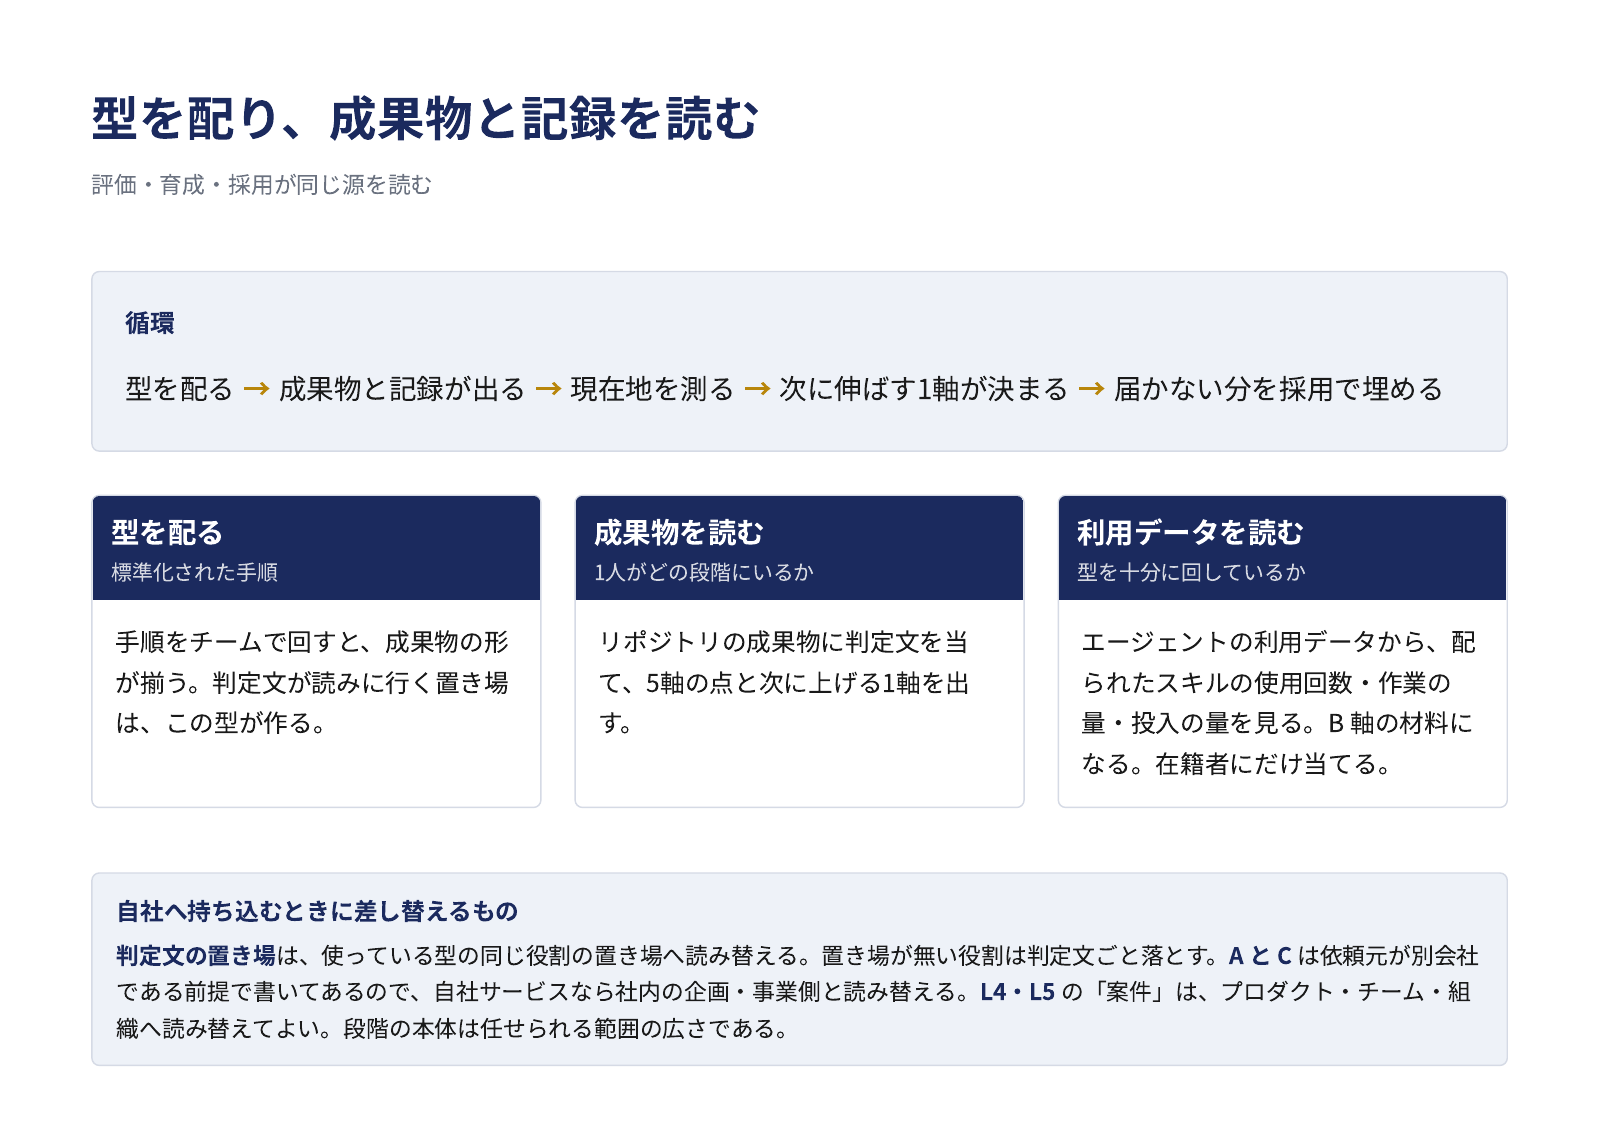
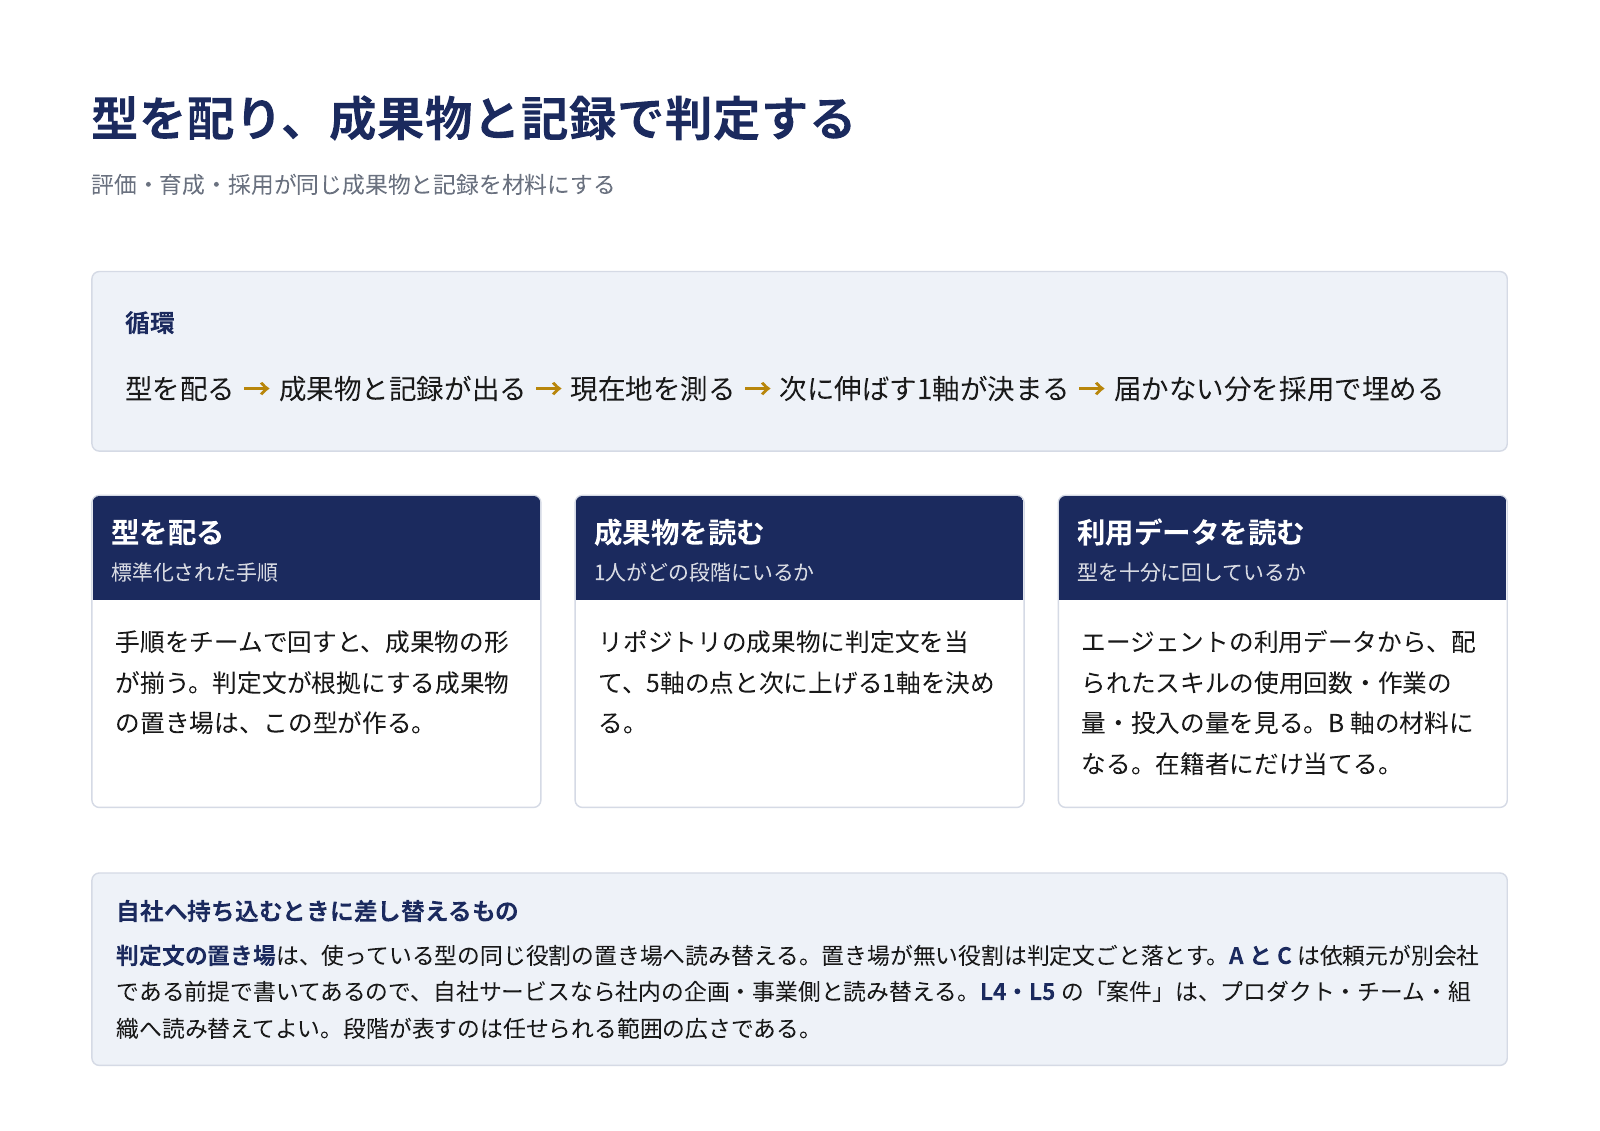
Replace vague 出る/読む wording in ladder docs and slides
「出るもの」「能力で読む」「同じ源を読む」など、何が決まるか・何で判定するかを伏せる言い回しを、決まる・付く・分かる・判定する・材料にする などの語に置き換えた。あわせて「詰まりの型」「段階の本体」「判定文が読みに行く置き場」も中身の語で書き直し、スライドの PNG を作り直した。

diff --git a/ladder/slides.html b/ladder/slides.html
@@ -110,7 +110,7 @@ li::before{ content:""; position:absolute; left:.4mm; top:calc(.5lh - .75mm);
 <section class="page cover">
   <div class="org">評価制度の例</div>
   <h1>エンジニアの評価基準<br>5軸 × 5段階</h1>
-  <div class="lead">採用・育成・評価を、1つの基準で回す</div>
+  <div class="lead">採用・育成・評価に、1つの基準を使う</div>
   <hr>
   <ul class="ask">
     <li><b>何を測るか</b>　上流・型の運用・ドメイン・検証・基盤の5軸</li>
@@ -123,20 +123,20 @@ li::before{ content:""; position:absolute; left:.4mm; top:calc(.5lh - .75mm);
 <!-- 2 3つの用途 -->
 <section class="page">
   <div class="head">
-    <h1>評価・育成・採用を、同じ5軸で回す</h1>
-    <div class="sub">3つを別々の制度にしない。軸と段階は共通で、読む材料だけが替わる</div>
+    <h1>評価・育成・採用に、同じ5軸を使う</h1>
+    <div class="sub">3つを別々の制度にしない。軸と段階は共通で、材料だけが替わる</div>
   </div>
   <div class="body" style="justify-content:center">
     <div class="uses">
       <div class="use"><div class="n">評価<span>いまどこにいるか</span></div>
-        <dl><dt>読むもの</dt><dd>リポジトリの成果物と、型を回した記録</dd>
-            <dt>出るもの</dt><dd>5軸それぞれの段階。証拠が無い軸は「未観測」</dd></dl></div>
+        <dl><dt>材料</dt><dd>リポジトリの成果物と、型を回した記録</dd>
+            <dt>結果</dt><dd>5軸それぞれの段階。証拠が無い軸は「未観測」</dd></dl></div>
       <div class="use"><div class="n">育成<span>次に何を伸ばすか</span></div>
-        <dl><dt>読むもの</dt><dd>評価で出た5軸の段階</dd>
-            <dt>出るもの</dt><dd>最も低い1軸と、それに対応する手順。回した成果物が次の評価の材料になる</dd></dl></div>
+        <dl><dt>材料</dt><dd>評価で付いた5軸の段階</dd>
+            <dt>結果</dt><dd>最も低い1軸と、それに対応する手順。回した成果物が次の評価の材料になる</dd></dl></div>
       <div class="use"><div class="n">採用<span>誰を取るか</span></div>
-        <dl><dt>読むもの</dt><dd>面接と課題。前職の成果物は持ち込ませない</dd>
-            <dt>出るもの</dt><dd>在籍者と同じ5軸の段階。B は入社前に測れないので見込みで置き、入社後に採点し直す</dd></dl></div>
+        <dl><dt>材料</dt><dd>面接と課題。前職の成果物は持ち込ませない</dd>
+            <dt>結果</dt><dd>在籍者と同じ5軸の段階。B は入社前に測れないので見込みで置き、入社後に採点し直す</dd></dl></div>
     </div>
   </div>
   <div class="foot"><div class="callout">
@@ -191,9 +191,9 @@ li::before{ content:""; position:absolute; left:.4mm; top:calc(.5lh - .75mm);
   </div>
   <div class="foot">
     <div class="co3">
-      <div class="callout"><div class="t">L1 は標準化の外に置く</div>型を渡しても回せず、個人の書き方で成果物を出す状態。<b>型を渡して回させれば L2 へ上がれる</b>ので、育成の下端が定義から読める。</div>
+      <div class="callout"><div class="t">L1 は標準化の外に置く</div>型を渡しても回せず、個人の書き方で成果物を出す状態。<b>型を渡して回させれば L2 へ上がれる</b>ので、育成の出発点が定義で決まる。</div>
       <div class="callout"><div class="t">L2 は型を理解すれば届く</div>判定文は型が実際に強制するものだけで書いてある。理解した人が届かないなら、<b>直すのは人ではなく判定文か型の側</b>である。</div>
-      <div class="callout"><div class="t">L5 の行は到達像</div>5本がすべて真になる人を探すためではなく、<b>どの軸がどれだけ足りないか</b>を言うために読む。</div>
+      <div class="callout"><div class="t">L5 の行は到達像</div>5本がすべて真になる人を探すためではなく、<b>どの軸がどれだけ足りないか</b>を言うために使う。</div>
     </div>
     <div class="note">※ 報酬帯との対応は持たない。段階と報酬の結び付け方は各社で違い、評価基準の側に固定すると持ち込めなくなる。</div>
   </div>
@@ -224,7 +224,7 @@ li::before{ content:""; position:absolute; left:.4mm; top:calc(.5lh - .75mm);
           <tr><td><span class="lv">L2</span></td><td>指示された手順を回し、標準の形の成果物を出せる。変更1本ごとに区切り、コミットで止まって承認を待てる<div class="src">PR の粒度、承認の残り方、配られたスキルの使用回数</div></td></tr>
           <tr><td><span class="lv">L3</span></td><td>作業に対して回す手順を自分で選べる。他の作業者の成果物を読んで自分の進め方を直せる。型が噛み合わない作業を見分けて手で進める<div class="src">手順を外した作業と、その理由の記録</div></td></tr>
           <tr><td><span class="lv">L4</span></td><td>既存の型の欠落を特定して直せる。無い手順を作る要否を判断し、要ると見れば自分で作ってチームに使わせる<div class="src">手順の置き場への変更と、自作のスキルが他のメンバーに使われた回数</div></td></tr>
-          <tr><td><span class="lv">L5</span></td><td>案件横断で型の構成を設計し、他人が回せる形に配布できる。詰まりの型を見つけて仕組みの側へ反映できる<div class="src">他案件への配布と、配布後の定着</div></td></tr>
+          <tr><td><span class="lv">L5</span></td><td>案件横断で型の構成を設計し、他人が回せる形に配布できる。繰り返し起きる詰まりを見つけて型に反映できる<div class="src">他案件への配布と、配布後の定着</div></td></tr>
         </tbody>
       </table>
     </div>
@@ -267,7 +267,7 @@ li::before{ content:""; position:absolute; left:.4mm; top:calc(.5lh - .75mm);
 <section class="page">
   <div class="head">
     <h1>判定文（3/3）　E インフラ・基盤／採点の原則</h1>
-    <div class="sub">採点は能力で読み、5軸を平均しない</div>
+    <div class="sub">採点は能力で判定し、5軸を平均しない</div>
   </div>
   <div class="body">
     <div style="display:flex;gap:6mm;flex:1">
@@ -282,13 +282,13 @@ li::before{ content:""; position:absolute; left:.4mm; top:calc(.5lh - .75mm);
         </tbody>
       </table>
       <div class="card" style="flex:1">
-        <div class="t"><span class="a">採点の原則</span><span class="b">能力で読み、実績で読まない</span></div>
+        <div class="t"><span class="a">採点の原則</span><span class="b">能力で判定し、実績では判定しない</span></div>
         <div class="c">
-          判定文を成果物の事実で読むと、測っているのは<b>やってきたこと</b>になる。組めるが組む仕事をしなかった人は、E が実力より下に出る。
+          判定文を成果物の事実だけで当てると、測っているのは<b>やってきたこと</b>になる。組めるが組む仕事をしなかった人は、E が実力より低く付く。
           <ul style="margin-top:2.6mm">
             <li><b>軸ごとに L2 から順に真偽を見る。</b>偽になった手前がその軸の点になる</li>
             <li><b>証拠が無い軸は「未観測」として残す。</b>点で埋めない。育成では機会を配れば分かる軸、選考では面接で聞く軸を指す</li>
-            <li><b>5軸の平均を取らない。</b>凸凹が消え、次に何をするかが出なくなる</li>
+            <li><b>5軸の平均を取らない。</b>凸凹が消え、次に何をするかが分からなくなる</li>
           </ul>
         </div>
       </div>
@@ -316,7 +316,7 @@ li::before{ content:""; position:absolute; left:.4mm; top:calc(.5lh - .75mm);
       <tbody>
         <tr><td><span class="lv out">L1</span></td>
           <td class="num">1</td><td class="num">1</td><td class="num hi">3</td><td class="num">1</td><td class="num">1</td>
-          <td>型を渡しても回らず、自分の書き方で書き始める。同じ依頼元を長く見てきたので、C だけが2段上に出ている。</td>
+          <td>型を渡しても回らず、自分の書き方で書き始める。同じ依頼元を長く見てきたので、C だけが2段高い。</td>
           <td>単位作業。着手前にこちらで手順を割ってから渡す</td></tr>
         <tr><td><span class="lv">L2</span></td>
           <td class="num">2</td><td class="num">2</td><td class="num">1</td><td class="num">2</td><td class="num">1</td>
@@ -338,16 +338,16 @@ li::before{ content:""; position:absolute; left:.4mm; top:calc(.5lh - .75mm);
     </table>
   </div>
   <div class="foot"><div class="callout">
-    <div class="t">この5人から読めること</div>
-    代表段階は5人とも<b>A と B の高いほう</b>に一致する。最も低い軸を取る規則にすると L1 以外の全員が下がる。最も低い軸を取るのは、次に上げる1軸を出すときだけである。<b>C は段階に連動しない</b>（L1 が3、L2 が1、L3 が2）。型に乗れるかと依頼元の業務を知っているかは互いに独立で、在籍の長さが効くのは C の側だけである。
+    <div class="t">この5人から分かること</div>
+    代表段階は5人とも<b>A と B の高いほう</b>に一致する。最も低い軸を取る規則にすると L1 以外の全員が下がる。最も低い軸を取るのは、次に上げる1軸を決めるときだけである。<b>C は段階に連動しない</b>（L1 が3、L2 が1、L3 が2）。型に乗れるかと依頼元の業務を知っているかは互いに独立で、在籍の長さが効くのは C の側だけである。
   </div></div>
 </section>
 
 <!-- 10 型と道具 -->
 <section class="page">
   <div class="head">
-    <h1>型を配り、成果物と記録を読む</h1>
-    <div class="sub">評価・育成・採用が同じ源を読む</div>
+    <h1>型を配り、成果物と記録で判定する</h1>
+    <div class="sub">評価・育成・採用が同じ成果物と記録を材料にする</div>
   </div>
   <div class="body" style="justify-content:center">
     <div class="flow" style="margin-bottom:8mm">
@@ -358,16 +358,16 @@ li::before{ content:""; position:absolute; left:.4mm; top:calc(.5lh - .75mm);
     </div>
     <div class="cards">
       <div class="card"><div class="t"><span class="a">型を配る</span><span class="b">標準化された手順</span></div>
-        <div class="c">手順をチームで回すと、成果物の形が揃う。判定文が読みに行く置き場は、この型が作る。</div></div>
+        <div class="c">手順をチームで回すと、成果物の形が揃う。判定文が根拠にする成果物の置き場は、この型が作る。</div></div>
       <div class="card"><div class="t"><span class="a">成果物を読む</span><span class="b">1人がどの段階にいるか</span></div>
-        <div class="c">リポジトリの成果物に判定文を当て、5軸の点と次に上げる1軸を出す。</div></div>
+        <div class="c">リポジトリの成果物に判定文を当て、5軸の点と次に上げる1軸を決める。</div></div>
       <div class="card"><div class="t"><span class="a">利用データを読む</span><span class="b">型を十分に回しているか</span></div>
         <div class="c">エージェントの利用データから、配られたスキルの使用回数・作業の量・投入の量を見る。B 軸の材料になる。在籍者にだけ当てる。</div></div>
     </div>
   </div>
   <div class="foot"><div class="callout">
     <div class="t">自社へ持ち込むときに差し替えるもの</div>
-    <b>判定文の置き場</b>は、使っている型の同じ役割の置き場へ読み替える。置き場が無い役割は判定文ごと落とす。<b>A と C</b> は依頼元が別会社である前提で書いてあるので、自社サービスなら社内の企画・事業側と読み替える。<b>L4・L5</b> の「案件」は、プロダクト・チーム・組織へ読み替えてよい。段階の本体は任せられる範囲の広さである。
+    <b>判定文の置き場</b>は、使っている型の同じ役割の置き場へ読み替える。置き場が無い役割は判定文ごと落とす。<b>A と C</b> は依頼元が別会社である前提で書いてあるので、自社サービスなら社内の企画・事業側と読み替える。<b>L4・L5</b> の「案件」は、プロダクト・チーム・組織へ読み替えてよい。段階が表すのは任せられる範囲の広さである。
   </div></div>
 </section>
 </body></html>

diff --git a/ladder/docs/personas.md b/ladder/docs/personas.md
@@ -1,7 +1,7 @@
 # 参照ペルソナ
 
 [ladder.md](ladder.md) の各段階に1人ずつ像を置く。実在の人物を当てず、評価基準の側を
-固定するための像である。採点で迷ったとき、判定文の隣にこの5人を置いて読む。
+固定するための像である。採点で迷ったとき、判定文とこの5人を照らし合わせる。
 
 **5人とも全軸を揃えていない。** 実在の人は軸ごとに凸凹するため、揃った像はどの人にも
 当たらない。
@@ -19,7 +19,7 @@
 
 型を渡しても回らない。手順書を開くより先に自分の書き方で書き始め、指摘されるとその場は
 直すが次の作業でまた戻る。同じ依頼元を長く見てきたので現行システムの全体構成と例外処理の
-在処は把握していて、C だけが2段上に出ている。
+在処は把握していて、C だけが2段高い。
 
 - **任せられる範囲**: 単位作業。着手前にこちらで手順を割ってから渡す
 - **成果物**: 形が揃わない。同じ種類の作業でも毎回違う出方をする
@@ -87,15 +87,15 @@
 - **成果物**: 型と品質基準が、他の案件が下敷きにできる形で出る
 - **レビューで返るもの**: 会社としての方針との整合
 
-## この5人から読めること
+## この5人から分かること
 
 **代表段階は、5人とも A と B の高いほうに一致する。** 最も低い軸を取る規則にすると
-L1 以外の全員が下がる。最も低い軸を取るのは**次に上げる1軸**を出すときだけで、
+L1 以外の全員が下がる。最も低い軸を取るのは**次に上げる1軸**を決めるときだけで、
 **その人を1つの段階で呼ぶ**ときは A と B の高いほうを取る。
 
 **C は段階に連動しない。** L1 が3、L2 が1、L3 が2 で、段階の順に並ばない。配られた型に
 乗れるかと、依頼元の業務を知っているかは互いに独立で、在籍の長さが関わるのは C の側だけである。
-C を代表段階の材料に入れると、長くいる人が実態より上に出る。
+C を代表段階の材料に入れると、長くいる人に実態より高い段階が付く。
 
 **凸凹の幅は段階に連動しない。** 2段の開きを持つのは L1 だけで、L2 以上の4人は1段に収まる。
 段階が上がって低い軸が無くなるのではなく、低い軸の位置が変わる。

diff --git a/ladder/docs/ladder.md b/ladder/docs/ladder.md
@@ -1,6 +1,6 @@
 # ラダー
 
-このリポの正本である。採点・育成・選考はすべてこの表を読む。
+このリポの正本である。採点・育成・選考はすべてこの表を基準にする。
 
 評価基準は5軸と5段階でできている。軸は測るもの、段階は依頼元に対してどこまで一人で
 任せられるかを区切ったものである。
@@ -32,7 +32,7 @@
 持つ型が少ないためで、そこは型の側の欠落になる。
 
 **L5 の行は到達像である。** 5本の判定文がすべて真になる人を探すためではなく、
-どの軸がどれだけ足りないかを言うために読む。
+どの軸がどれだけ足りないかを言うために使う。
 
 報酬帯との対応は持たない。段階と報酬の結び付け方は各社で違い、評価基準の側に固定すると
 持ち込めなくなる。
@@ -71,7 +71,7 @@
 | L2 | 指示された手順を回し、標準の形の成果物を出せる。変更1本ごとに区切り、コミットで止まって承認を待てる | 直近の PR の粒度、承認の残り方、Claude Code の利用データにある配られたスキルの使用回数 |
 | L3 | 作業に対して回す手順を自分で選べる。他の作業者の成果物を読んで自分の進め方を直せる。型が噛み合わない作業を見分けて手で進める判断ができる | 手順を外した作業と、その理由の記録 |
 | L4 | 既存の型の欠落を特定して直せる。無い手順を作る要否を判断し、要ると見れば自分で作ってチームに使わせる | `docs/ops/` への変更と、その後の利用。自作のスキルがほかのメンバーに使われた回数（Claude Code の利用データ） |
-| L5 | 案件横断で型の構成を設計し、他人が回せる形に配布できる。詰まりの型を見つけて仕組みの側へ反映できる | 他案件への配布と、配布後の定着 |
+| L5 | 案件横断で型の構成を設計し、他人が回せる形に配布できる。繰り返し起きる詰まりを見つけて型に反映できる | 他案件への配布と、配布後の定着 |
 
 **L3 の「他の作業者の成果物を読んで自分の進め方を直せる」は、受け取る側の能力である。**
 公開ラダーはメンタリングやレビューという与える側だけを測ることが多いが、

diff --git a/ladder/docs/scoring.md b/ladder/docs/scoring.md
@@ -13,7 +13,7 @@
 ## 未観測を点で埋めない
 
 判定文は成果物から確かめられる事実で書いてある。そのまま読むと、測っているのは
-**やってきたこと**になる。組めるが組む仕事をしなかった人は、E が低く出る。
+**やってきたこと**になる。組めるが組む仕事をしなかった人は、E が実力より低く付く。
 
 **段階は能力の側で決める。** 機会が無かっただけの人を下に置くと、育成で打つ手を間違え、
 選考では取り逃す。
@@ -24,11 +24,11 @@
 
 5軸の点が揃わないとき、どこを取るかは用途で変わる。
 
-- **育成** — 最も低い軸を見る。次に上げる1軸がそのまま出る
+- **育成** — 最も低い軸を見る。次に上げる1軸がそのまま決まる
 - **配置** — 案件が要求する軸だけを見る。5軸の平均は取らない
 - **選考** — 最も低い軸を見る。ただし B は入社前に測れない
 
-平均を取ると、凸凹が消えて「次に何をするか」が出なくなる。点は順位付けではなく、
+平均を取ると、凸凹が消えて「次に何をするか」が分からなくなる。点は順位付けではなく、
 どの軸が足りないかを見るために置いてある。
 
 ## 候補者に当てるとき

diff --git a/ladder/docs/adapt.md b/ladder/docs/adapt.md
@@ -27,7 +27,7 @@ B は残す。配られた型に乗れるかを測る軸で、エージェント
 ## 3. 段階を差し替える
 
 L4・L5 は「案件」を単位にしている。案件で区切らない組織では、
-プロダクト・チーム・組織のいずれかに読み替える。段階の区切りの本体は
+プロダクト・チーム・組織のいずれかに読み替える。段階の区切りが表すのは
 **任せられる範囲の広さ**であり、単位の名前ではない。
 
 ## 書き足すときの規則

diff --git a/ladder/README.md b/ladder/README.md
@@ -6,7 +6,7 @@
 
 ![1. 表紙](slides/01.png)
 
-![2. 評価・育成・採用を、同じ5軸で回す](slides/02.png)
+![2. 評価・育成・採用に、同じ5軸を使う](slides/02.png)
 
 ![3. 評価の軸：5軸](slides/03.png)
 
@@ -20,4 +20,4 @@
 
 ![8. 各段階の参照ペルソナ](slides/08.png)
 
-![9. 型を配り、成果物と記録を読む](slides/09.png)
+![9. 型を配り、成果物と記録で判定する](slides/09.png)
